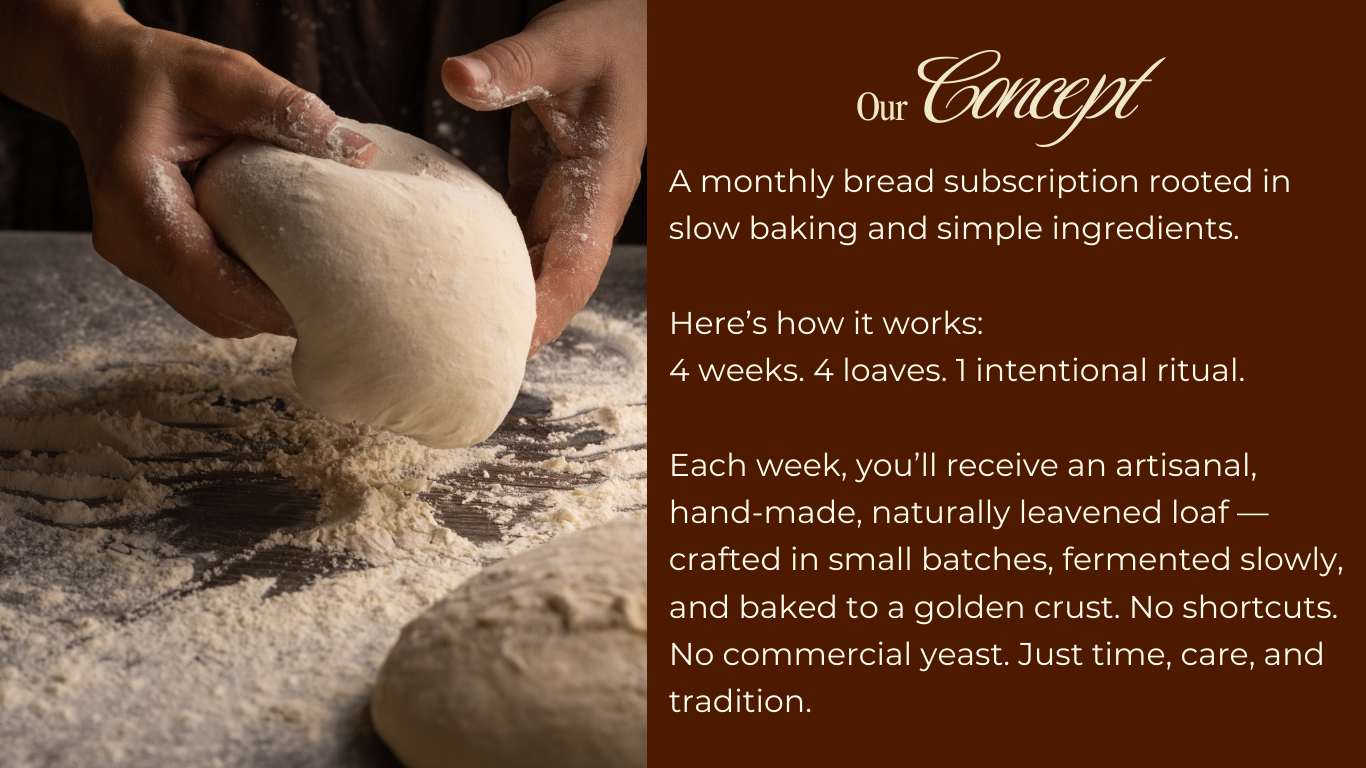
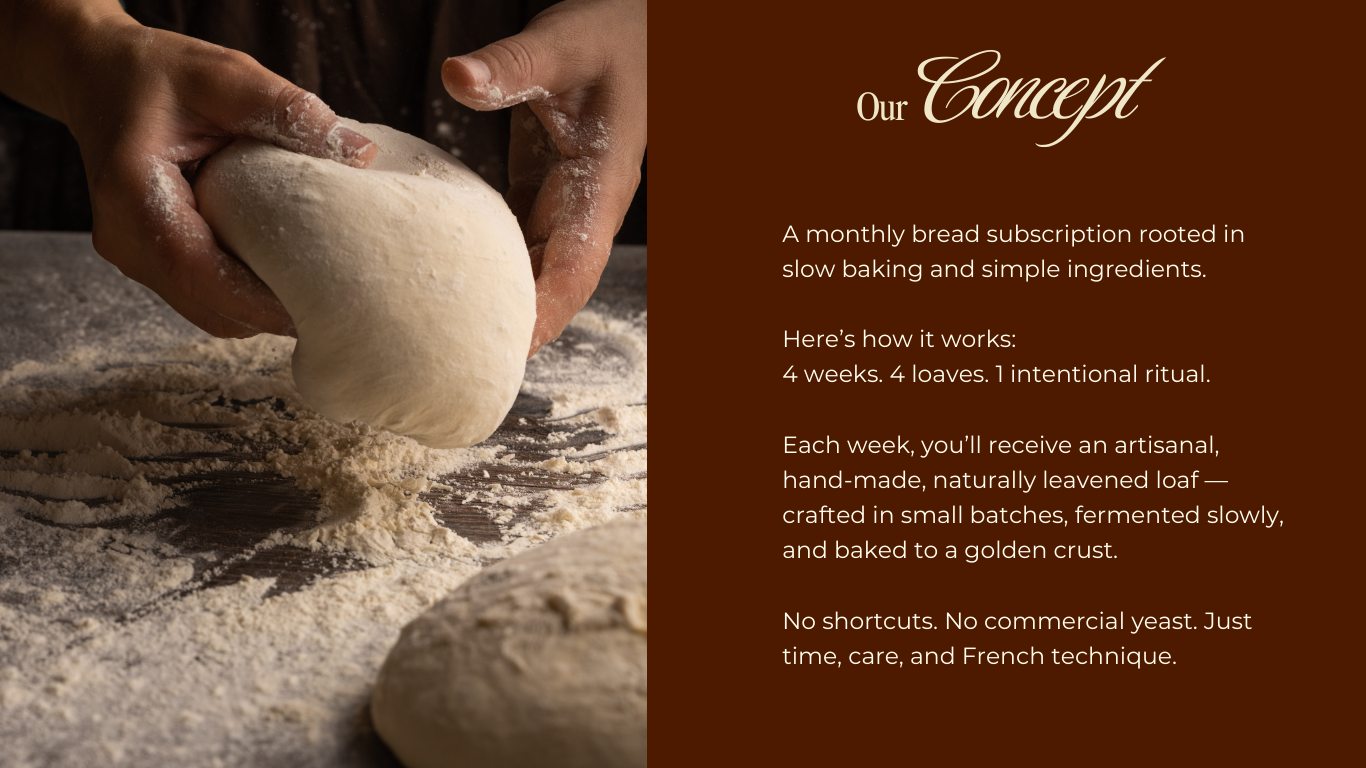
Added image instead of embedding. Added header

diff --git a/styles.css b/styles.css
@@ -101,6 +101,12 @@ img {
 /* =========================
    STORY SECTION
 ========================= */
+.story-test {
+  background: var(--cream);
+  padding: 20px 0px;
+  border-radius: 8px;
+  
+}
 
 .story {
   background: var(--cream);
@@ -249,4 +255,132 @@ html, body {
 img {
   max-width: 100%;
   height: auto;
+}
+
+/* =========================
+   HEADER
+========================= */
+
+.site-header {
+  width: 100%;
+  padding: 20px 0;
+  /* border-bottom: 1px solid #eee; */
+  position: relative;
+  background: var(--deep-brown);
+}
+
+.header-inner {
+  max-width: 1200px;
+  margin: 0 auto;
+  padding: 0 20px;
+  display: flex;
+  justify-content: space-between;
+  align-items: center;
+}
+
+.logo {
+display: flex;
+  flex-direction: column; /* Stacks image on top of text */
+  align-items: center;    /* Centers both horizontally */
+  justify-content: center;
+  color: var(--cream);
+  font-size: 18px;
+  font-weight: 500;
+  letter-spacing: 1px;
+}
+
+/* Specific styling for the SVG image */
+.logo img {
+  display: block;
+  width: 150px;      /* Adjust width as needed for your design */
+  height: 30px;     /* Set a specific height to "crop" the empty space */
+  object-fit: cover; /* Crops the image to fill the 60px height */
+  object-position: center; /* Keeps the actual logo mark in focus */
+}
+
+.desktop-nav {
+  display: flex;
+  gap: 30px;
+  align-items: center;
+}
+
+.desktop-nav a {
+  text-decoration: none;
+  color: var(--cream);
+  font-size: 15px;
+}
+
+.waitlist-btn {
+  padding: 10px 18px;
+  border: 1px solid var(--cream);
+  border-radius: 30px;
+  text-decoration: none;
+  font-size: 14px;
+  transition: 0.2s ease;
+}
+
+.waitlist-btn:hover {
+  background: var(--deep-brown);
+  color: var(--cream);
+}
+
+/* =========================
+   HAMBURGER
+========================= */
+
+.hamburger {
+  width: 26px;
+  height: 18px;
+  display: none;
+  flex-direction: column;
+  justify-content: space-between;
+  cursor: pointer;
+}
+
+.hamburger span {
+  height: 2px;
+  width: 100%;
+  background: var(--cream);
+  display: block;
+}
+
+/* =========================
+   MOBILE MENU
+========================= */
+
+.mobile-menu {
+  display: none;
+  flex-direction: column;
+  padding: 20px;
+  gap: 18px;
+  border-top: 1px solid #eee;
+}
+
+.mobile-menu a {
+  text-decoration: none;
+  color: var(--cream);
+  font-size: 16px;
+}
+
+.mobile-menu .waitlist-btn.mobile {
+  text-align: center;
+}
+
+/* =========================
+   RESPONSIVE
+========================= */
+
+@media (max-width: 900px) {
+
+  .desktop-nav {
+    display: none;
+  }
+
+  .hamburger {
+    display: flex;
+  }
+
+  .mobile-menu.active {
+    display: flex;
+  }
 }

diff --git a/index.html b/index.html
@@ -6,9 +6,45 @@
   <!-- <title>Kirana Bakehouse</title> -->
 
   <link href="https://fonts.googleapis.com/css2?family=Playfair+Display:wght@400;500;600&family=Inter:wght@300;400;500&display=swap" rel="stylesheet">
+  <link href="https://fonts.googleapis.com/css2?family=Luxurious+Script&display=swap" rel="stylesheet">
   <link rel="stylesheet" href="./styles.css">
 </head>
+<header class="site-header">
+  <div class="header-inner">
 
+    <div class="logo">
+      <img src="./img/kirana_cream_logo.svg" alt="Kirana logo in cream colour" class="logo-image">
+      <!-- <span>kirana bakehouse</span> -->
+    </div>
+
+    <nav class="desktop-nav">
+      <a href="#story">Our Story</a>
+      <a href="#menu">Menu</a>
+      <a href="#" class="waitlist-btn">Join Waitlist</a>
+    </nav>
+
+    <div class="hamburger" id="hamburger">
+      <span></span>
+      <span></span>
+      <span></span>
+    </div>
+
+  </div>
+
+  <div class="mobile-menu" id="mobileMenu">
+    <a href="#story">Our Story</a>
+    <a href="#menu">Menu</a>
+    <a href="#" class="waitlist-btn mobile">Join Waitlist</a>
+  </div>
+</header>
+<script>
+  const hamburger = document.getElementById('hamburger');
+  const mobileMenu = document.getElementById('mobileMenu');
+
+  hamburger.addEventListener('click', () => {
+    mobileMenu.classList.toggle('active');
+  });
+</script>
 <body>
 
   <main class="page">
@@ -18,20 +54,11 @@
       <img src="./img/CoverImage.png" alt="Kirana Bakehouse">
     </section>
 
-    <!-- HERO TEXT -->
-    <!-- <section class="hero">
-      <h1>French Technique meets Local Flavors</h1>
-      <p>
-        Handcrafted, naturally leavened loaves baked in small batches in The Willows.
-      </p>
-
-      <a href="#" class="cta-button">Pre-Order Now</a>
-    </section> -->
-
 
     <!-- STORY SECTION -->
-    <section class="story">
-      <div class="story-grid">
+    <section class="story-test">
+      <img src="./img/concept.png" alt="Our concept">
+      <!-- <div class="story-grid">
 
         <div class="story-image">
           <img src="./img/dough_hands.jpg" alt="Artisan bread concept">
@@ -53,15 +80,15 @@
             crafted in small batches, fermented slowly, and baked to a golden crust.
             No shortcuts. No commercial yeast. Just time, care, and tradition.
           </p>
-        </div>
+        </div> -->
 
-      </div>
+      <!-- </div> -->
     </section>
 
 
     <!-- FOOTER -->
     <footer class="footer">
-      <div>© 2026 Kirana Bakehouse</div>
+      <div>© 2026 Kirana</div>
 
       <a
         href="https://www.instagram.com/kiranabakehouse"
